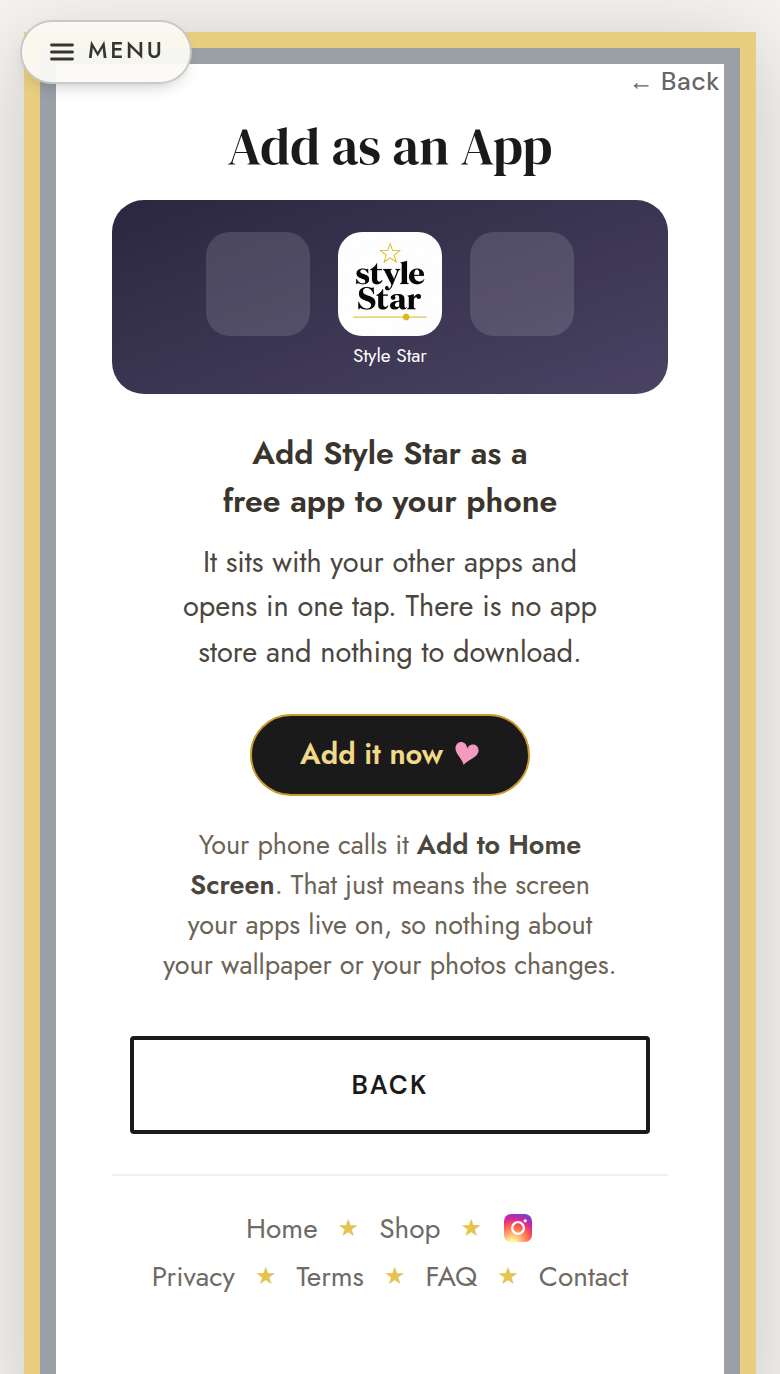
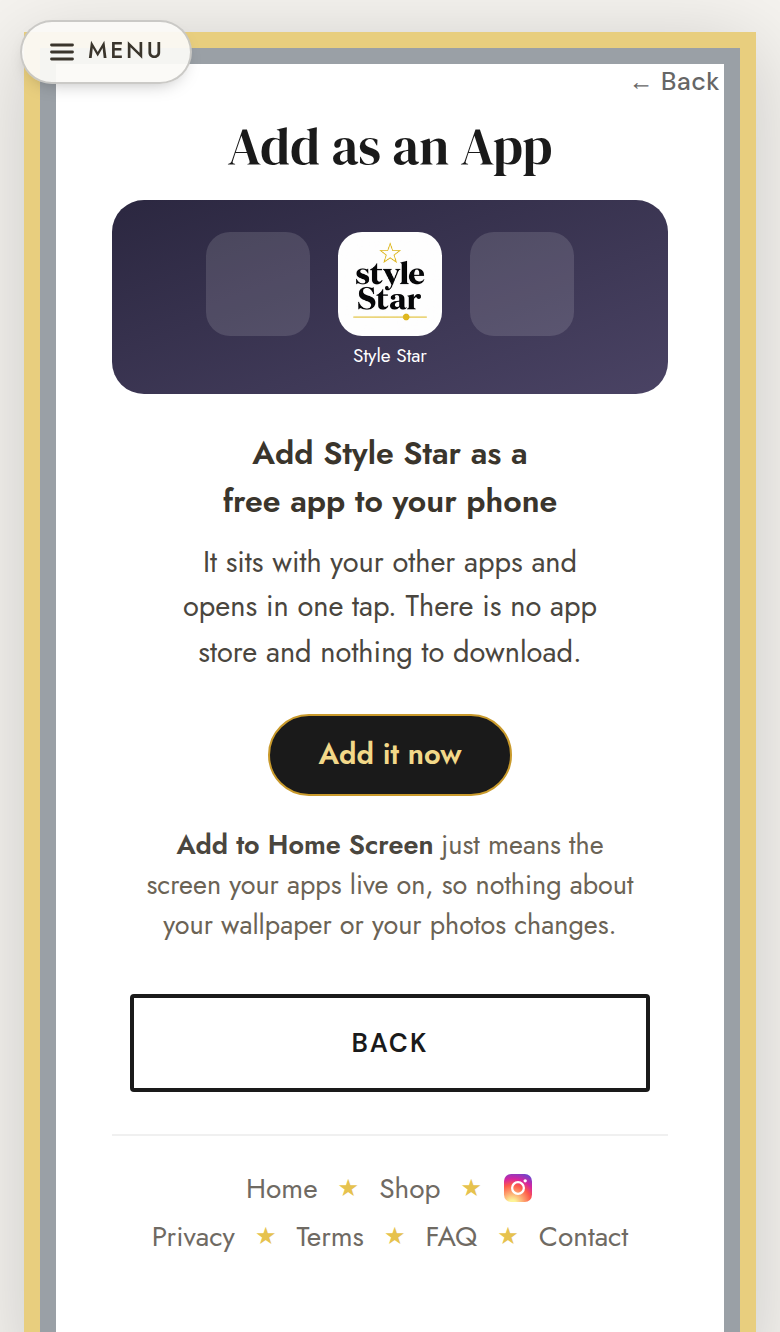
Her two edits: no heart here, and nothing that reads like a phone call
The heart comes off this page, her call, and it is her own mark system
applied correctly: a tilted pink heart means Catherine speaking, and this
page is instructions rather than her voice. The Welcome Back whisper keeps
its heart, because that one is her voice and she blessed the wording.

Asserted both ways so neither can drift: absent here, still present there.

And "Your phone calls it Add to Home Screen" read like a telephone call to
her ear, which it does once you hear it. The note now leads with the button
name instead, which also ties it straight back to step 2: "Add to Home
Screen just means the screen your apps live on, so nothing about your
wallpaper or your photos changes."

Losing the heart also takes step 2 back to a single line, so the widow fix
is no longer doing any work there, but the rule stays since the wording is
still near the width limit.

a2page.js 58 checks, green.

Claude-Session: https://claude.ai/code/session_019WX5yosuN6oXTNLmVPkUTY

diff --git a/index.html b/index.html
@@ -1533,11 +1533,12 @@ body.menu-open .menu-panel{display:block}
    and they merely touch, but on a real iPhone it is ~47px and the chip would
    land on the title. Don't replace this with a flat margin. */
 #s-a2hs .story-title{margin-top:calc(18px + env(safe-area-inset-top,0px));margin-bottom:14px;line-height:1}
-/* ⚠ _A2_HEART carries class="a2-h", whose size/tilt live under #a2hs — the
-   WHISPER's scope. On this page that rule does not apply, so without this the
-   heart renders at the SVG default size (it did, and it was enormous). Tilted
-   12deg because no heart in this app sits straight. */
-#s-a2hs .a2-h{width:14px;height:14px;vertical-align:-2px;transform:rotate(12deg)}
+/* ⚠ NO pink heart on this page, her call 2026-08-19: "it's not really my voice
+   here." Correct by her own mark system — the tilted pink heart means CATHERINE
+   SPEAKING, and this page is instructions. The Welcome Back whisper keeps its
+   heart, because that one IS her voice. If a heart ever returns here it needs an
+   explicit size: class="a2-h" is styled only under #a2hs, so unsized it renders
+   at the SVG default, which is enormous. */
 #s-a2hs .ap-body{text-align:center}
 #s-a2hs .ap-home{display:flex;justify-content:center;gap:14px;align-items:flex-start;background:linear-gradient(160deg,#2b2740,#4a4364);border-radius:16px;padding:16px 12px 13px;margin:0 auto 18px;max-width:290px}
 #s-a2hs .ap-slot{width:52px;text-align:center}
@@ -7165,18 +7166,18 @@ function _syncA2hsPage(){
   try{installed=installed||!!localStorage.getItem('ss_a2hs')}catch(e){}
   // ⚠ The meaning note is the whole reason this page exists in her words:
   // "Add to Home Screen is not intuitive to most users."
-  var meaning='<div class="ap-note">Your phone calls it <b>Add to Home Screen</b>. That just means the screen your apps live on, so nothing about your wallpaper or your photos changes.</div>';
+  var meaning='<div class="ap-note"><b>Add to Home Screen</b> just means the screen your apps live on, so nothing about your wallpaper or your photos changes.</div>';
   if(installed){
-    el.innerHTML='<div class="ap-sub" style="margin-bottom:0">Style Star is already on this phone. Open it from your home screen any time '+_A2_HEART+'</div>';
+    el.innerHTML='<div class="ap-sub" style="margin-bottom:0">Style Star is already on this phone. Open it from your home screen any time.</div>';
   }else if(_a2hsPrompt){
-    el.innerHTML='<span class="ap-btn" role="button" tabindex="0" onclick="a2hsGo()" onkeydown="if(event.key===\'Enter\'||event.key===\' \')a2hsGo()">Add it now '+_A2_HEART+'</span>'+meaning;
+    el.innerHTML='<span class="ap-btn" role="button" tabindex="0" onclick="a2hsGo()" onkeydown="if(event.key===\'Enter\'||event.key===\' \')a2hsGo()">Add it now</span>'+meaning;
   }else if(_a2hsIOS()){
     // ⚠ "your browser's toolbar", NEVER "at the bottom" — Safari's bar can be
     // moved to the top. And the real flow is Share -> sometimes View More ->
     // scroll -> Add to Home Screen; an instruction that undercounts is worse
     // than none, because she follows it, sees nothing, and concludes it broke.
     el.innerHTML='<div class="ap-step"><span class="ap-n">1</span><span>Tap <span class="ap-chip">'+_A2_SHARE_DARK+'</span> in your browser\'s toolbar</span></div>'
-      +'<div class="ap-step"><span class="ap-n">2</span><span>Scroll down to <b>Add to Home Screen</b> '+_A2_HEART+'</span></div>'
+      +'<div class="ap-step"><span class="ap-n">2</span><span>Scroll down to <b>Add to Home Screen</b></span></div>'
       +meaning
       +'<div class="ap-note">It sits a little way down the list, under <b>View More</b> on some phones.</div>';
   }else{

diff --git a/scratchpad/a2page.js b/scratchpad/a2page.js
@@ -46,16 +46,13 @@ async function page(w,ua){
       // ⚠ ASSERT DIMENSIONS, NOT JUST POSITIONS. The heart's size lives under
       // #a2hs (the whisper's scope) and did NOT reach this page: it rendered at
       // the SVG default and was enormous, while every positional check passed.
-      hearts:[...document.querySelectorAll('#s-a2hs .a2-h')].map(h=>{const b=h.getBoundingClientRect();
-        return{w:Math.round(b.width),h:Math.round(b.height),tilt:getComputedStyle(h).transform!=='none'}}),
+      hearts:[...document.querySelectorAll('#s-a2hs .ap-body svg')].filter(x=>/a2-h|pinkheart/.test(x.getAttribute('class')||''))
+        .map(h=>{const b=h.getBoundingClientRect();return{w:Math.round(b.width),h:Math.round(b.height)}}),
       // the title must clear the fixed Menu chip, which drops by the safe-area inset
-      // her standing widow check: the heart must never be alone on a line
-      heartStranded:(()=>{const st=document.querySelectorAll('#s-a2hs .ap-step')[1];
-        if(!st)return null; const sp=st.lastElementChild, h=sp.querySelector('svg');
-        if(!h)return null; const sr=sp.getBoundingClientRect(), hr=h.getBoundingClientRect();
-        const lh=parseFloat(getComputedStyle(sp).lineHeight)||22;
-        const lines=Math.round(sr.height/lh);
-        return lines>1 && hr.top>sr.top+lh*(lines-1)-4 && hr.left<sr.left+40;})(),
+      // the whisper's own heart must survive — only THIS page loses it
+      whisperKeepsHeart:/(<svg|a2-h)/.test((function(){_a2hsPrompt=null;
+        try{_syncA2hs()}catch(e){} var t=document.getElementById('a2hsTxt');
+        return t?t.innerHTML:''})()),
       titleTop:Math.round(document.querySelector('#s-a2hs .story-title').getBoundingClientRect().top),
       chipBottom:Math.round(document.querySelector('.menu-chip').getBoundingClientRect().bottom),
       notes:[...document.querySelectorAll('#s-a2hs .ap-note')].map(x=>x.textContent.replace(/\s+/g,' ').trim()),
@@ -81,10 +78,15 @@ async function page(w,ua){
   ok(r.notes.some(n=>/wallpaper/i.test(n)),'HER ask: the wallpaper explanation is missing');
   ok(r.notes.some(n=>/View More/.test(n)),'the View More note is missing');
   ok(r.tappables.length===0,'iOS path has tappable-looking elements: '+r.tappables.join(', '));
-  ok(r.hearts.length>0&&r.hearts.every(h=>h.w>=10&&h.w<=20&&h.h>=10&&h.h<=20),
-     'heart is not sized on this page: '+JSON.stringify(r.hearts));
-  ok(r.hearts.every(h=>h.tilt),'a heart is sitting straight');
-  ok(r.heartStranded===false,'the pink heart is stranded alone on its own line');
+  // DELIBERATELY REVERSED 2026-08-19, her call: "it's not really my voice here."
+  // Correct by her own mark system — the tilted pink heart means CATHERINE
+  // SPEAKING, and this page is instructions. Asserted ABSENT so it cannot creep
+  // back, and asserted still PRESENT in the Welcome Back whisper, which is her
+  // voice and which she blessed on 2026-08-05.
+  ok(r.hearts.length===0,'a pink heart is back on this page: '+JSON.stringify(r.hearts));
+  ok(r.whisperKeepsHeart,'the Welcome Back whisper lost its heart — that one IS her voice');
+  ok(!/calls it/i.test(r.notes.join(' ')),'"calls it" is back (her ear: it reads like a phone call)');
+  ok(/^Add to Home Screen just means/.test(r.notes[0]||''),'the meaning note should lead with the button name');
   ok(r.titleTop>=r.chipBottom+8,'title only '+(r.titleTop-r.chipBottom)+'px below the Menu chip');
   ok(r.rows.length===20,'menu should be 20 rows, is '+r.rows.length);
   ok(errs.length===0,'JS errors: '+errs.join(' | '));
